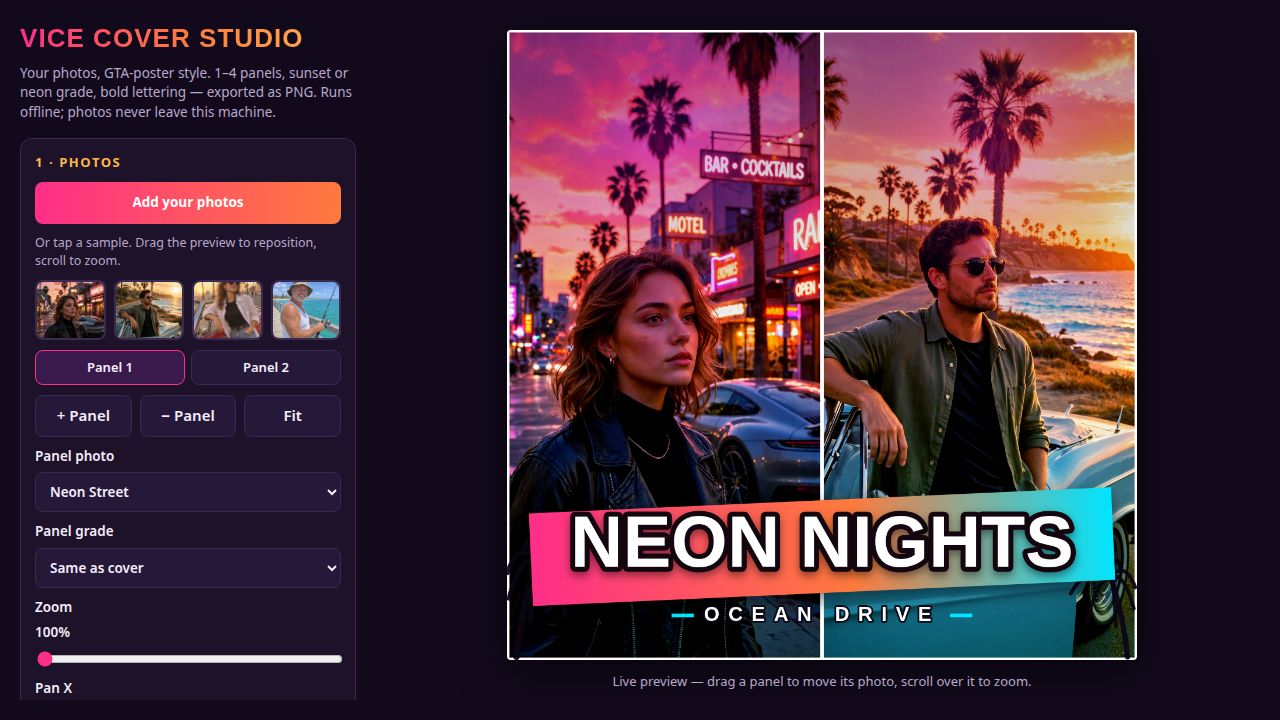
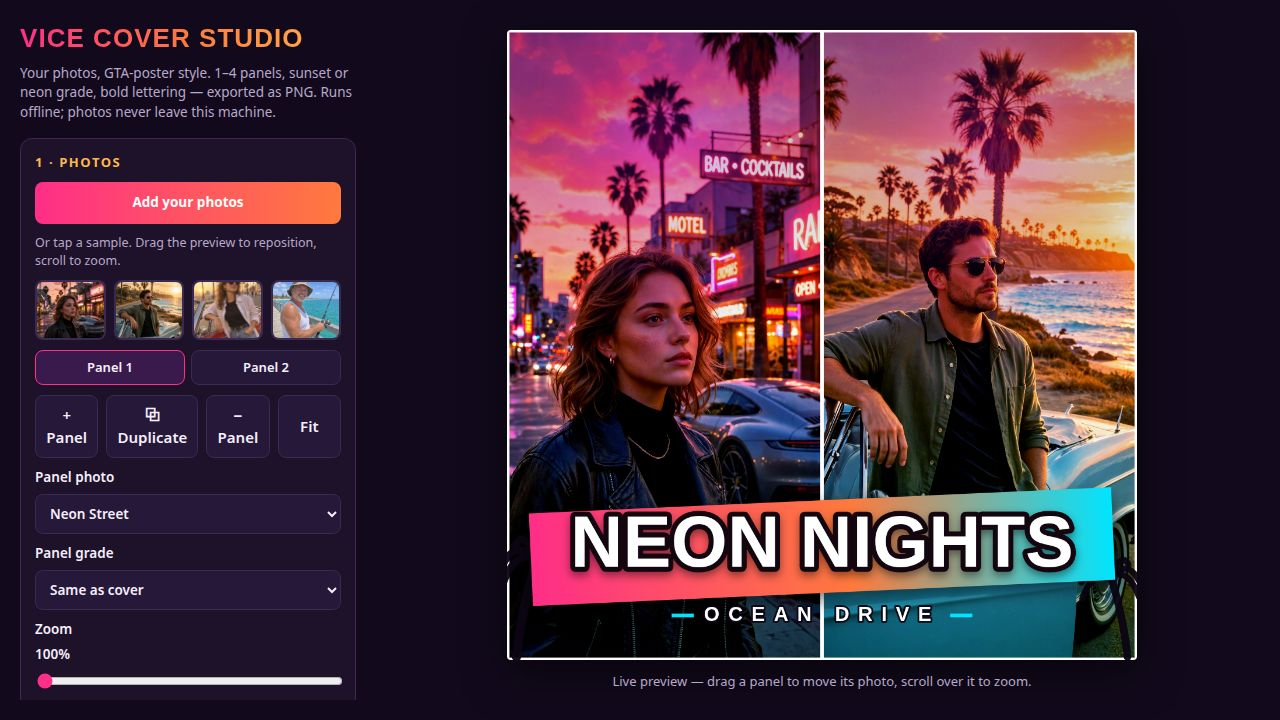
Vice Cover Studio: recorded rebuild for gta6-cover-art-01
Rewrote every code file fresh inside the sealed recording session:
new 4th colour grade (Vice Glow), panel-duplicate button + D shortcut,
Ctrl/Cmd+E export shortcut, per-panel shot pans (fixes cropped face in
wide shot), focus-visible styles. Re-took all 4 screenshots in-session.

Changed region(s): [[0.0312, 0.55, 0.2812, 0.9778], [0.875, 0.7639, 0.9062, 0.8556]]

diff --git a/app/src/main.js b/app/src/main.js
@@ -4,6 +4,8 @@
 // Photos never leave the machine: uploads use object URLs, samples are
 // local files, export renders an offscreen canvas and downloads a PNG.
 // A `?shot=` query sets up a fixed scene for a screenshot (./shots.js).
+// Shortcuts: Ctrl/Cmd+E exports the current cover; D duplicates the
+// selected panel (max 4 panels).
 
 import { drawCover, GRADES, SIZES, layoutPanels } from './cover.js';
 import { runShot } from './shots.js';
@@ -73,7 +75,9 @@ export async function applyPreset(preset) {
   if (preset.banner !== undefined) state.banner = preset.banner;
   if (preset.palms !== undefined) state.palms = preset.palms;
   if (preset.panels) {
-    state.panels = preset.panels.map((src) => ({ src, zoom: 1, ox: 0, oy: 0, grade: null }));
+    state.panels = preset.panels.map((p) => (typeof p === 'string'
+      ? { src: p, zoom: 1, ox: 0, oy: 0, grade: null }
+      : { src: p.src, zoom: p.zoom ?? 1, ox: p.ox ?? 0, oy: p.oy ?? 0, grade: p.grade ?? null }));
     state.selected = 0;
   }
   syncControls();
@@ -99,6 +103,18 @@ export async function exportCover(sizeKey) {
       resolve(a.download);
     }, 'image/png');
   });
+}
+
+/** Copies the selected panel (photo, crop and grade) as a new panel. */
+export function duplicatePanel() {
+  if (state.panels.length >= 4) return false;
+  const copy = { ...state.panels[state.selected] };
+  state.panels.splice(state.selected + 1, 0, copy);
+  state.selected = state.selected + 1;
+  buildPanelTabs();
+  syncPanelControls();
+  redraw();
+  return true;
 }
 
 function applySize() {
@@ -165,6 +181,7 @@ function buildPanelTabs() {
   });
   document.getElementById('add-panel').disabled = state.panels.length >= 4;
   document.getElementById('remove-panel').disabled = state.panels.length <= 1;
+  document.getElementById('duplicate-panel').disabled = state.panels.length >= 4;
 }
 
 function syncPanelControls() {
@@ -268,6 +285,9 @@ function bindControls() {
     syncPanelControls();
     redraw();
   });
+  document.getElementById('duplicate-panel').addEventListener('click', () => {
+    if (duplicatePanel()) setStatus(`Panel ${state.selected + 1} duplicated.`);
+  });
 
   document.getElementById('title').addEventListener('input', (e) => { state.title = e.target.value; redraw(); });
   document.getElementById('subtitle').addEventListener('input', (e) => { state.subtitle = e.target.value; redraw(); });
@@ -295,6 +315,17 @@ function bindControls() {
       panels: SAMPLES.map((s) => s.src),
     });
     await exportCover('1080x1080');
+  });
+
+  // Keyboard shortcuts: Ctrl/Cmd+E exports, D duplicates the selected panel.
+  document.addEventListener('keydown', (e) => {
+    const typing = /^(INPUT|SELECT|TEXTAREA)$/.test(document.activeElement?.tagName || '');
+    if ((e.ctrlKey || e.metaKey) && (e.key === 'e' || e.key === 'E')) {
+      e.preventDefault();
+      exportCover(state.size);
+    } else if (!typing && (e.key === 'd' || e.key === 'D')) {
+      if (duplicatePanel()) setStatus(`Panel ${state.selected + 1} duplicated.`);
+    }
   });
 
   // Drag to pan the selected panel, wheel to zoom it.

diff --git a/app/src/shots.js b/app/src/shots.js
@@ -1,14 +1,17 @@
 // Fixed scenes for screenshots.
 // ?shot=cover shows the exported cover alone; ?shot=editor shows the app
 // with photos loaded. Query params: panels (comma list of sample ids),
-// grade (sunset|neon|palm), caption (title), subtitle, size (1080x1080,
-// 1080x1350, 1920x1080), pos (top|center|bottom), banner (0|1), palms (0|1).
+// grade (sunset|neon|palm|vice), caption (title), subtitle, size (1080x1080,
+// 1080x1350, 1920x1080), pos (top|center|bottom), banner (0|1), palms (0|1),
+// pans (comma list of per-panel vertical pan offsets, -1..1, to keep faces
+// in frame when a wide panel crops a tall photo).
 // window.__shotReady is set once the scene is painted.
 export async function runShot(shot, query, applyPreset) {
   if (shot === 'cover') document.body.classList.add('shot-cover');
+  const pans = (query.get('pans') || '').split(',').map((s) => Number(s) || 0);
   const panels = (query.get('panels') || 'neon-street,sunset-convertible,boulevard,pier')
     .split(',').map((s) => s.trim()).filter(Boolean)
-    .map((id) => `samples/${id}.jpg`);
+    .map((id, i) => ({ src: `samples/${id}.jpg`, oy: pans[i] || 0 }));
   await applyPreset({
     size: query.get('size') || '1080x1080',
     grade: query.get('grade') || 'sunset',

diff --git a/app/index.html b/app/index.html
@@ -24,6 +24,7 @@
       <div id="panel-tabs" class="tabs" role="group" aria-label="Panels"></div>
       <div class="row">
         <button id="add-panel" type="button">+ Panel</button>
+        <button id="duplicate-panel" type="button" title="Copy the selected panel (D)">⧉ Duplicate</button>
         <button id="remove-panel" type="button">− Panel</button>
         <button id="fit-panel" type="button">Fit</button>
       </div>
@@ -36,6 +37,7 @@
           <option value="sunset">Vice City Sunset</option>
           <option value="neon">Neon Night</option>
           <option value="palm">Palm Dusk</option>
+          <option value="vice">Vice Glow</option>
         </select>
       </label>
       <label>Zoom <span id="zoom-val">100%</span>
@@ -85,6 +87,7 @@
       </div>
       <button id="export" type="button" class="primary">Export PNG</button>
       <button id="quick-export" type="button">One-click: sample cover + export</button>
+      <p class="hint">Shortcut: Ctrl/Cmd+E exports, D duplicates the selected panel.</p>
       <p id="status" role="status"></p>
     </section>
   </section>

diff --git a/app/style.css b/app/style.css
@@ -45,6 +45,7 @@ button.active { border-color: var(--pink); background: #3a1a4d; }
 .preview canvas { max-width: 100%; max-height: calc(100vh - 90px); width: auto; height: auto; box-shadow: 0 12px 44px rgba(0,0,0,0.6); border-radius: 4px; background: #2b1838; cursor: grab; }
 .preview canvas:active { cursor: grabbing; }
 .preview-hint { margin: 0; color: var(--muted); font-size: 13px; }
+button:focus-visible, input:focus-visible, select:focus-visible, .upload:focus-visible { outline: 2px solid var(--cyan); outline-offset: 2px; }
 /* Screenshot scenes: cover alone, centred on black, aspect preserved by JS. */
 body.shot-cover { background: #000; }
 body.shot-cover .controls, body.shot-cover .preview-hint { display: none; }

diff --git a/main.ts b/main.ts
@@ -5,7 +5,7 @@
 // beside this file to /output and writes /output/dossier.json, the summary the
 // judge reads, with the vendored make.fun library. The app itself is a
 // multi-panel GTA-poster-style cover maker: 1-4 photo panels with drag/zoom
-// cropping, three canvas colour grades, bold stroked lettering with a diagonal
+// cropping, four canvas colour grades, bold stroked lettering with a diagonal
 // banner, and PNG export in 1080x1080, 1080x1350 and 1920x1080.
 //
 // Serve it locally with `node serve.ts`, then open http://localhost:8080.

diff --git a/app/src/cover.js b/app/src/cover.js
@@ -32,6 +32,14 @@ export const GRADES = {
     glow: 'rgba(255, 214, 130, 0.26)',
     accent: '#ffb74d',
   },
+  vice: {
+    label: 'Vice Glow',
+    filter: 'saturate(1.45) contrast(1.10) brightness(1.00) hue-rotate(-12deg)',
+    top: 'rgba(124, 58, 237, 0.30)',
+    bottom: 'rgba(255, 46, 136, 0.38)',
+    glow: 'rgba(168, 85, 247, 0.32)',
+    accent: '#c084fc',
+  },
 };
 
 export const SIZES = {

diff --git a/README.md b/README.md
@@ -12,11 +12,11 @@ sunset / neon colour grade — and exports it as a PNG to share.
 
 ## What it does
 
-- **1–4 photo panels** — add or remove panels; each panel picks a photo from
+- **1–4 photo panels** — add, duplicate or remove panels; each panel picks a photo from
   your uploads or the 4 built-in samples, with drag-to-pan and scroll/zoom
   cropping plus per-panel colour grade.
-- **3 colour grades** — Vice City Sunset (pink/orange), Neon Night
-  (magenta/cyan), Palm Dusk (teal/gold). Built with canvas filters and
+- **4 colour grades** — Vice City Sunset (pink/orange), Neon Night
+  (magenta/cyan), Palm Dusk (teal/gold), Vice Glow (violet/pink). Built with canvas filters and
   gradient overlays, no external assets.
 - **Bold poster lettering** — big stroked title in a heavy system sans
   (Arial Black / Impact stack), optional diagonal gradient banner, letterspaced
@@ -25,6 +25,8 @@ sunset / neon colour grade — and exports it as a PNG to share.
 - **Export sizes** — 1080×1080, 1080×1350 and 1920×1080 PNG, one click each.
   **One-click: sample cover + export** builds a 4-panel sunset cover from the
   samples and downloads it immediately.
+- **Shortcuts** — Ctrl/Cmd+E exports the current cover, D duplicates the
+  selected panel.
 - **Offline by design** — plain static files, no network requests, no
   external fonts. Photos never leave the machine.
 
@@ -51,7 +53,7 @@ mkdir -p out && MAKEFUN_OUTPUT_DIR=out node main.ts
 | `screenshots/1-cover.jpg` | Finished 4-panel cover, Vice City Sunset, 1080×1080 |
 | `screenshots/2-editor.jpg` | Editor with a photo loaded, Neon Night |
 | `screenshots/3-cover.jpg` | Exported 2-panel cover, Neon Night, 1080×1350 |
-| `screenshots/4-cover-wide.jpg` | Exported 3-panel cover, Palm Dusk, 1920×1080 |
+| `screenshots/4-cover-wide.jpg` | Exported 3-panel cover, Vice Glow, 1920×1080 |
 
 Screenshot scenes are reproducible from `shots.json` (`?shot=cover|editor`
 with `panels`, `grade`, `caption`, `subtitle`, `size`, `pos`, `banner`,
